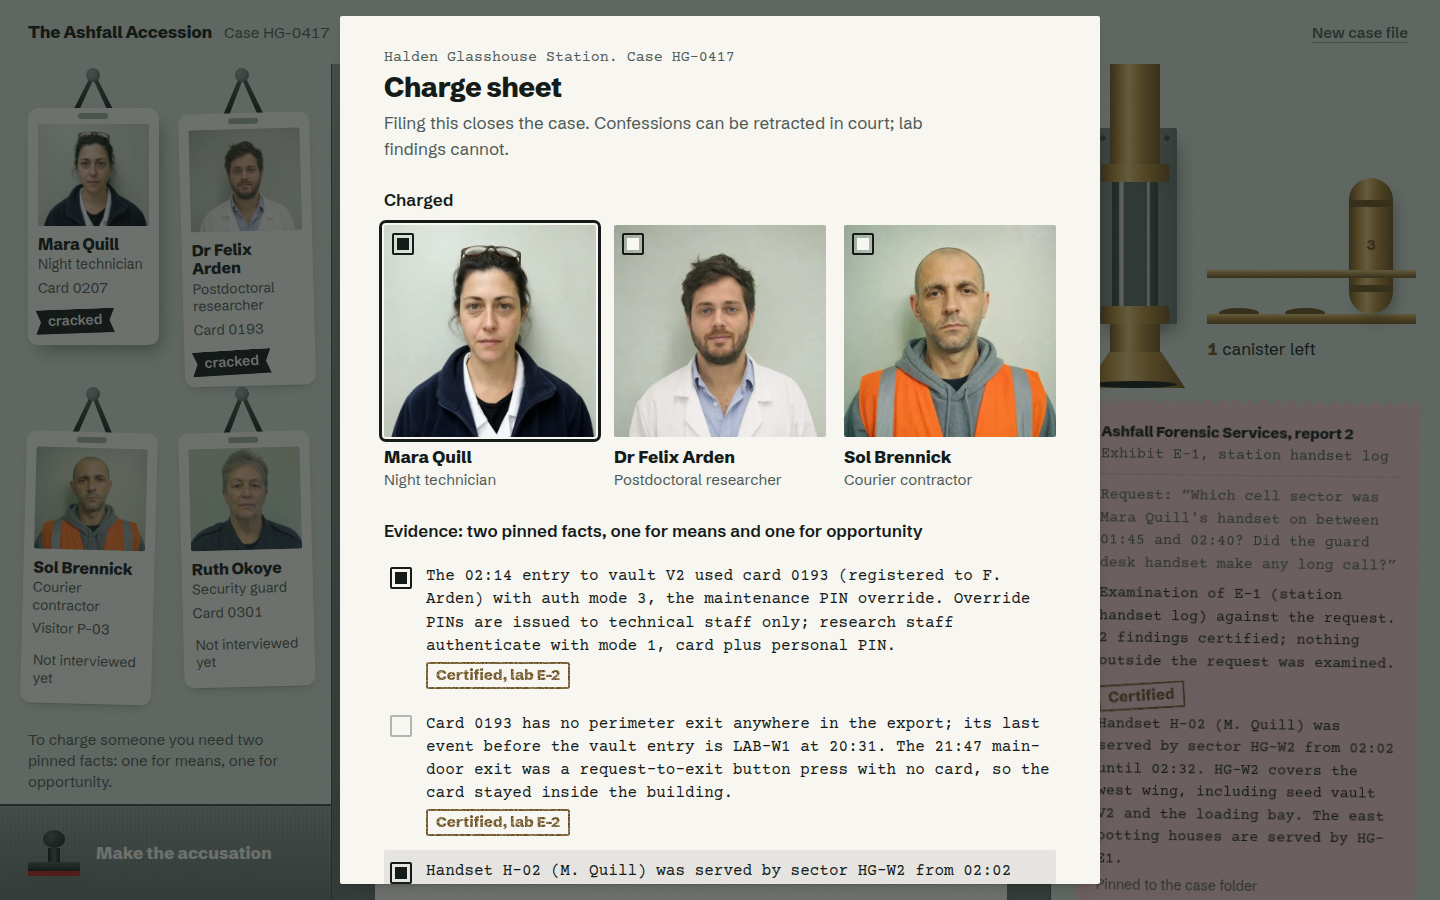
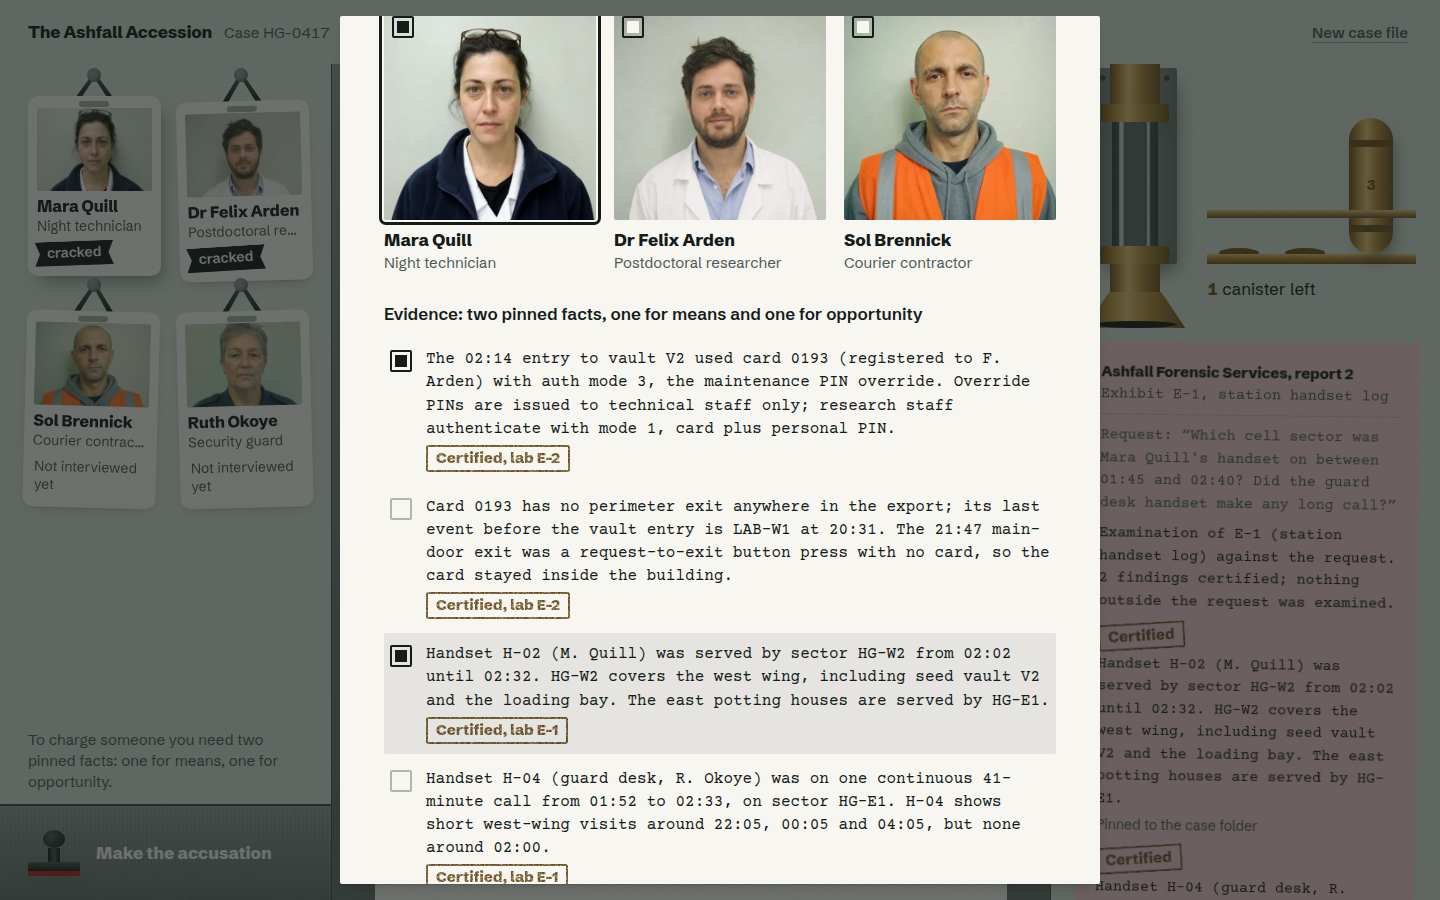
Fit the badges and case folder on short laptop screens

diff --git a/src/styles/app.css b/src/styles/app.css
@@ -2513,3 +2513,59 @@
     animation: none;
   }
 }
+
+/* ================================================================ short laptop screens */
+
+/* The tube station stays pinned while the folder scrolls; fade the folder out
+   under it instead of slicing the slips on a hard line. */
+@media (min-width: 1100px) {
+  .station::after {
+    content: '';
+    position: absolute;
+    left: 0;
+    right: 0;
+    top: 100%;
+    height: 28px;
+    background: linear-gradient(var(--wall), transparent);
+    pointer-events: none;
+  }
+  .badges {
+    mask-image: linear-gradient(#000 calc(100% - 28px), transparent);
+  }
+}
+
+@media (min-width: 1100px) and (max-height: 900px) {
+  .badges {
+    gap: 2px 14px;
+    padding-bottom: 28px;
+  }
+  .hook {
+    padding-top: 28px;
+  }
+  .hook__strap {
+    height: 28px;
+  }
+  .badge {
+    padding: 12px 9px 10px;
+  }
+  .badge__photo {
+    aspect-ratio: 1 / 0.72;
+  }
+  .badge__name {
+    margin-top: 6px;
+  }
+  .badge__role {
+    white-space: nowrap;
+    overflow: hidden;
+    text-overflow: ellipsis;
+  }
+  .badge__no {
+    display: none;
+  }
+  .badge__tape {
+    margin-top: 6px;
+  }
+  .station {
+    height: 270px;
+  }
+}
